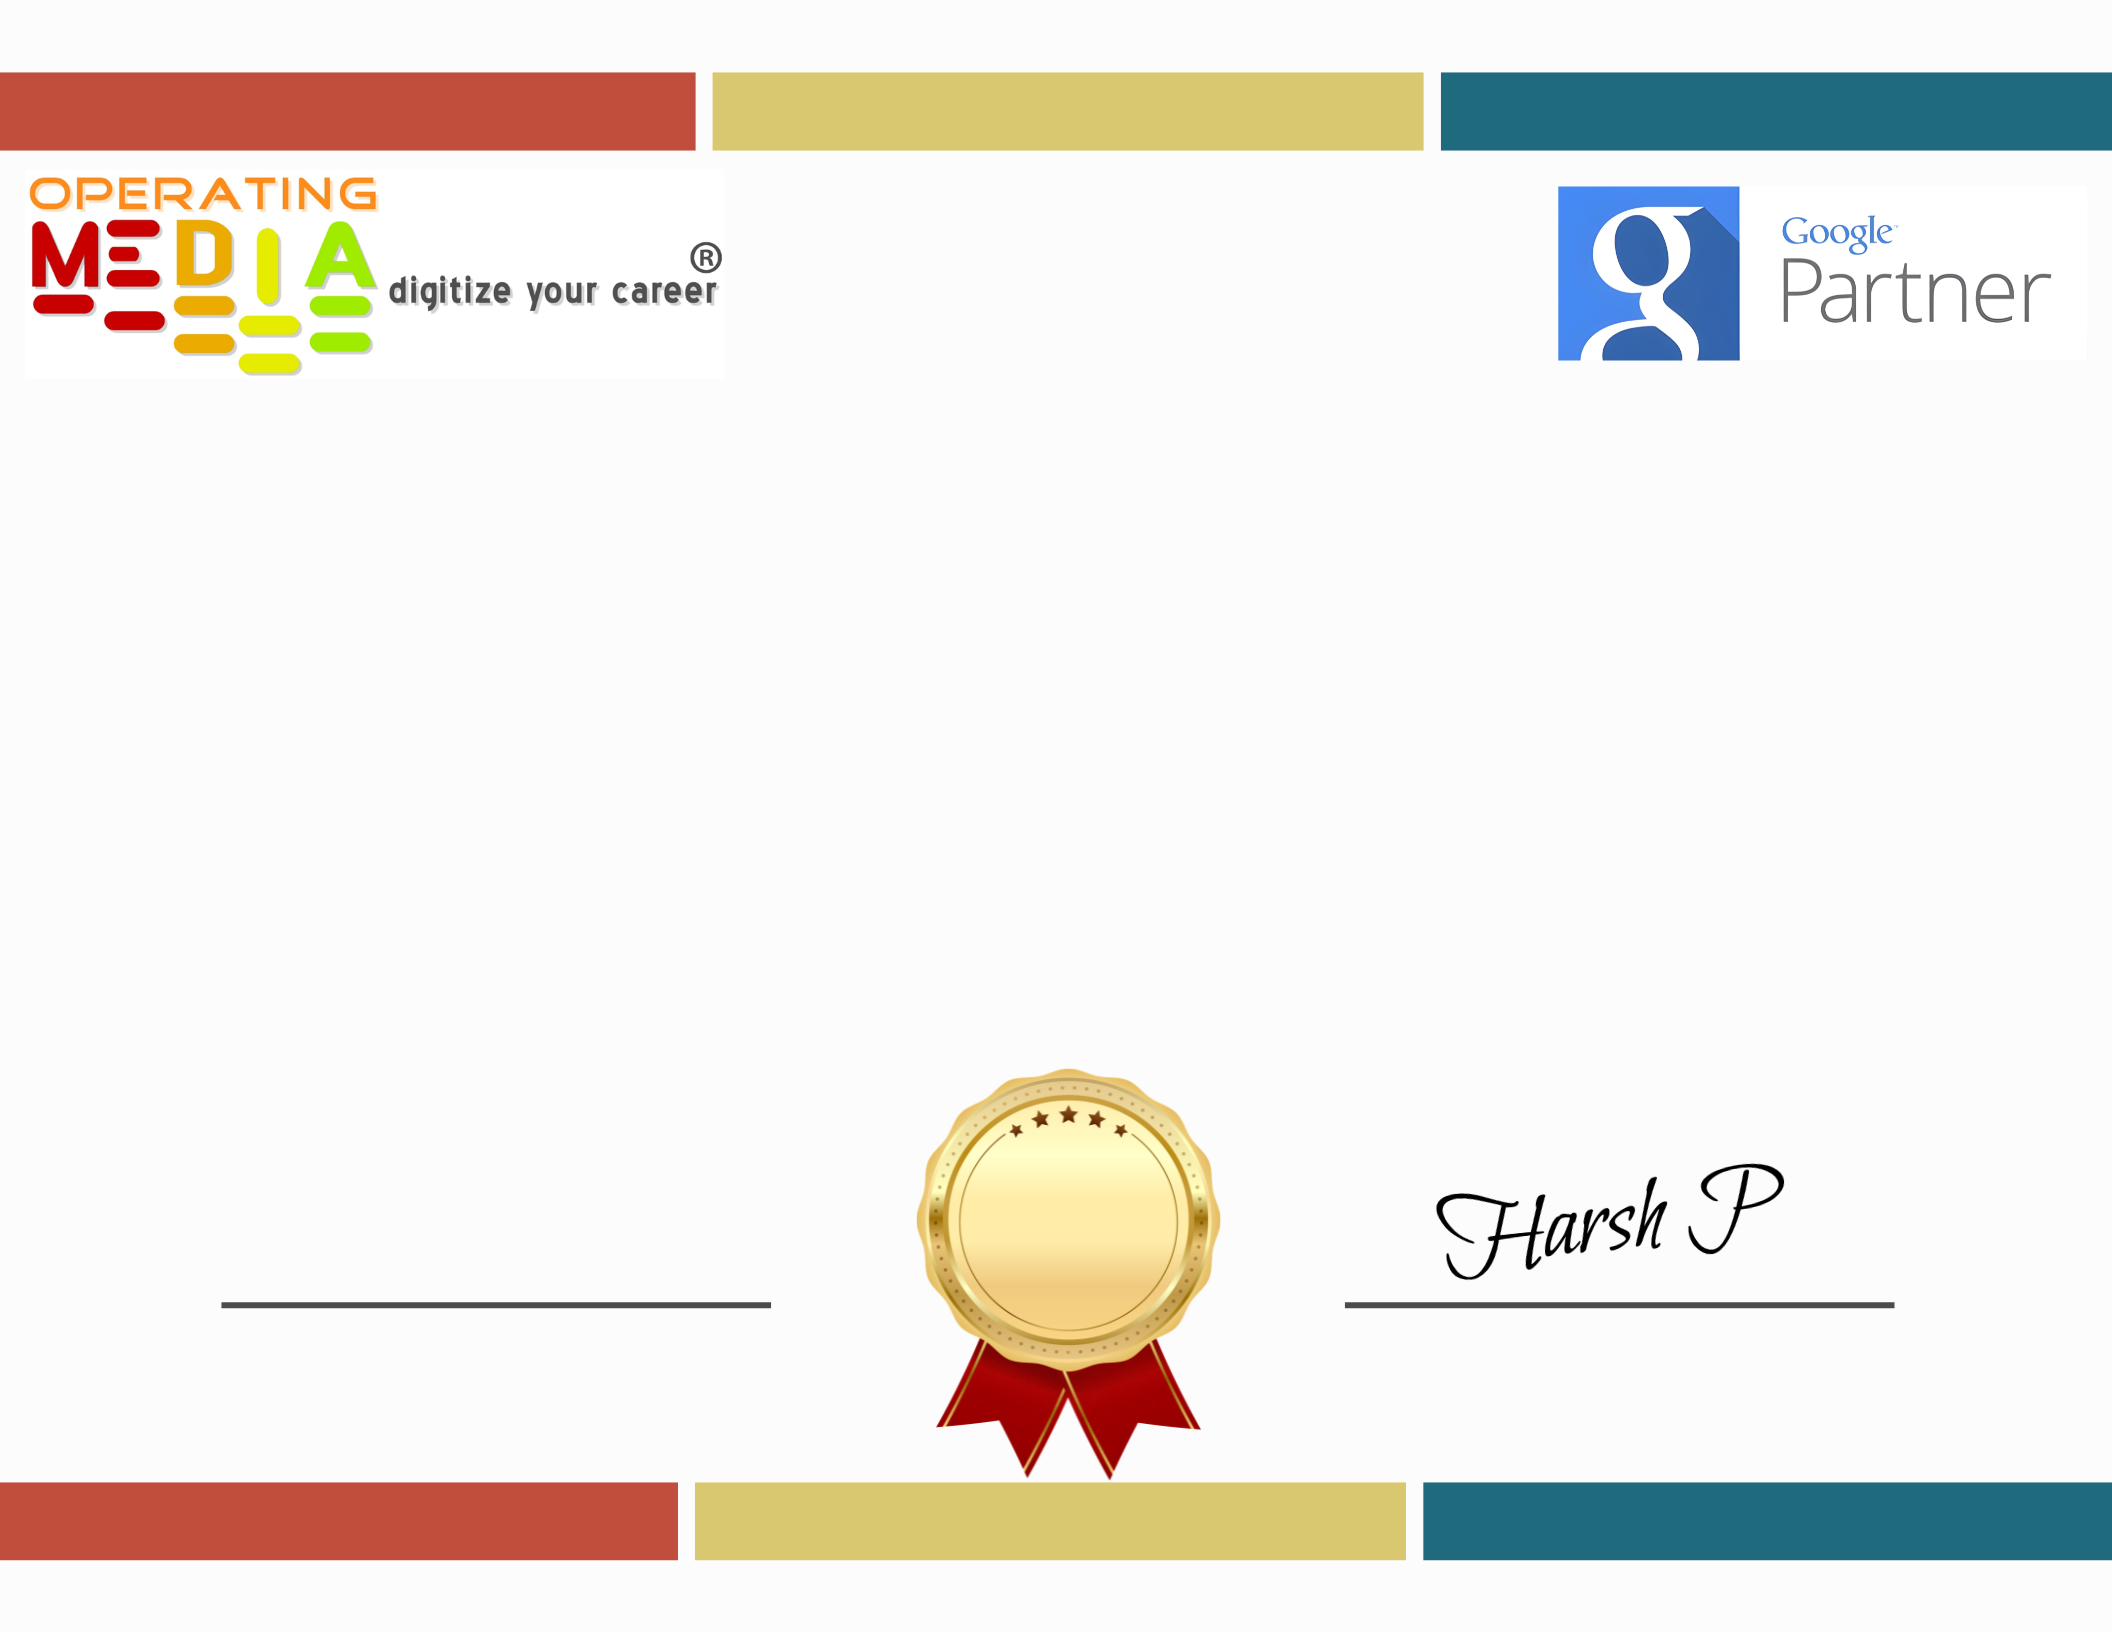
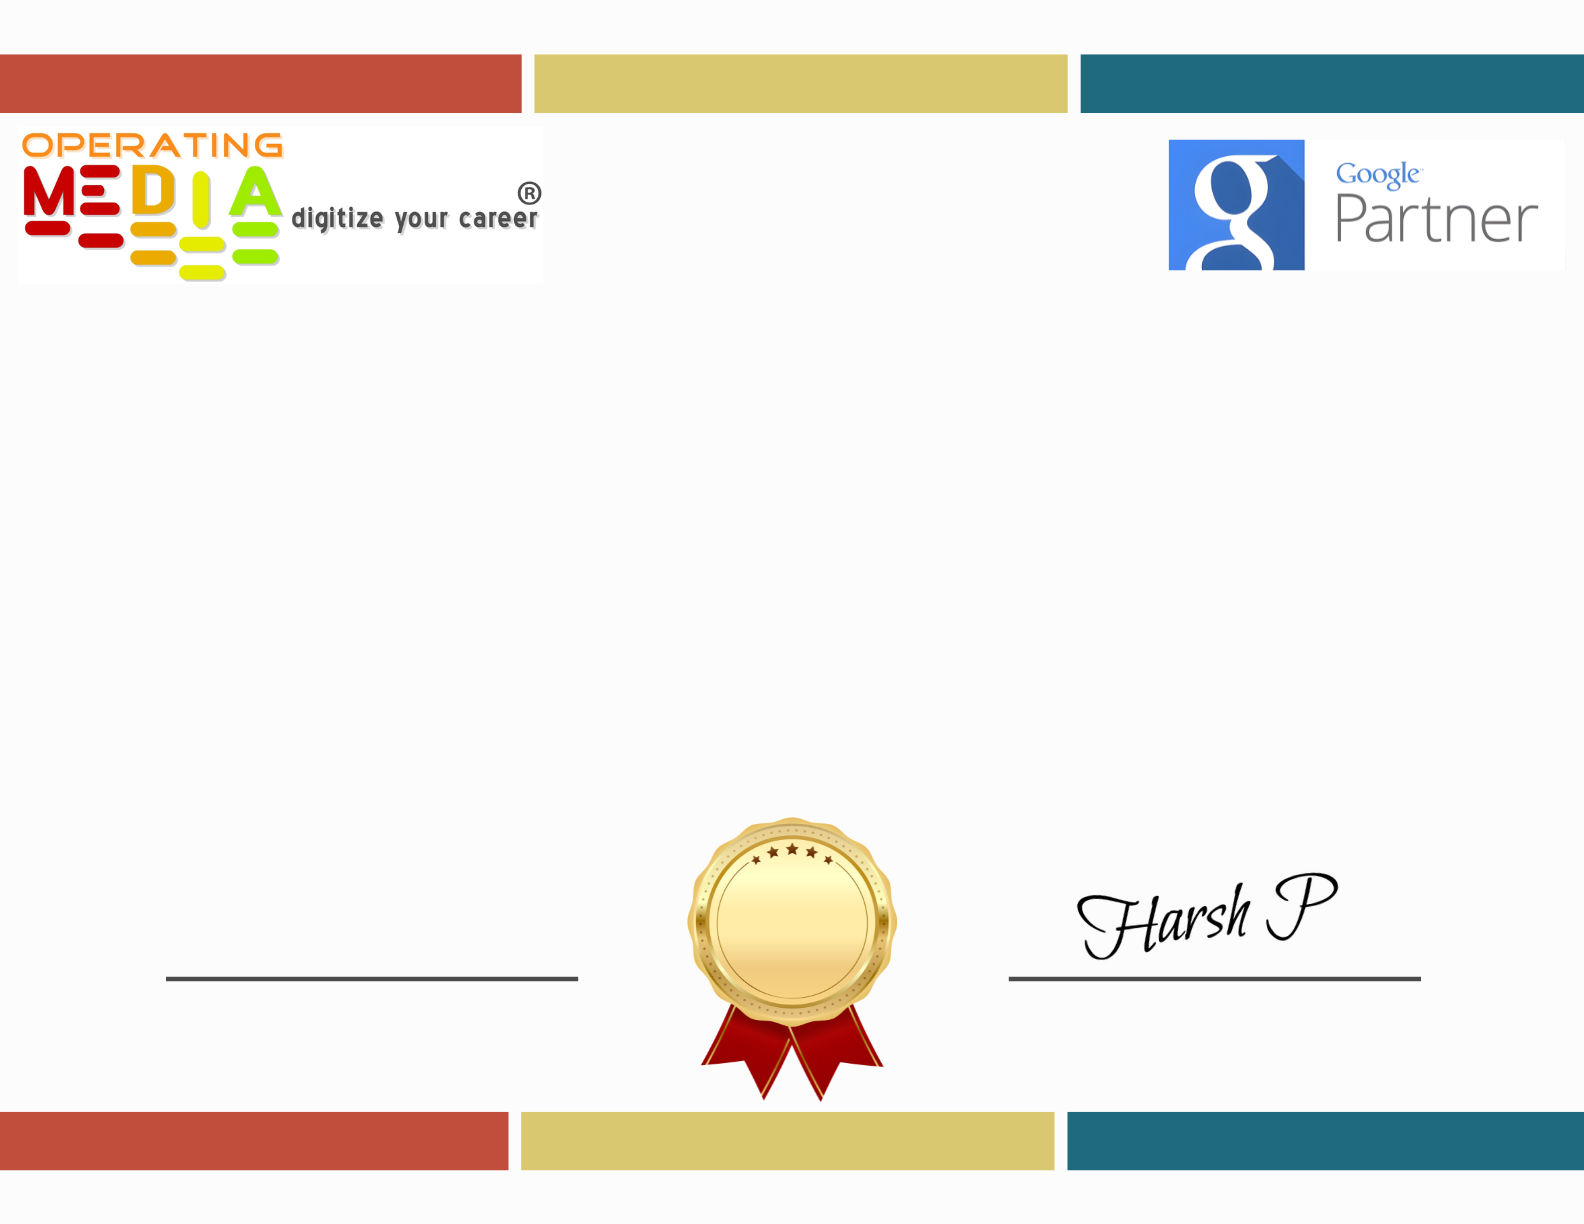
align

Changed region(s): [[0.4331, 0.652, 0.5878, 0.9003]]

diff --git a/src/components/CertificateTemplate/CertificateTemplate.css b/src/components/CertificateTemplate/CertificateTemplate.css
@@ -60,7 +60,7 @@
 
 .txt-course {
   position: absolute;
-  top: 53.5%;
+  top: 50.5%;
   width: 100%;
   text-align: center;
   font-size: 38px;
@@ -73,7 +73,7 @@
 
 .txt-date {
   position: absolute;
-  top: 60.5%;
+  top: 57.5%;
   width: 100%;
   text-align: center;
   font-size: 17px;
